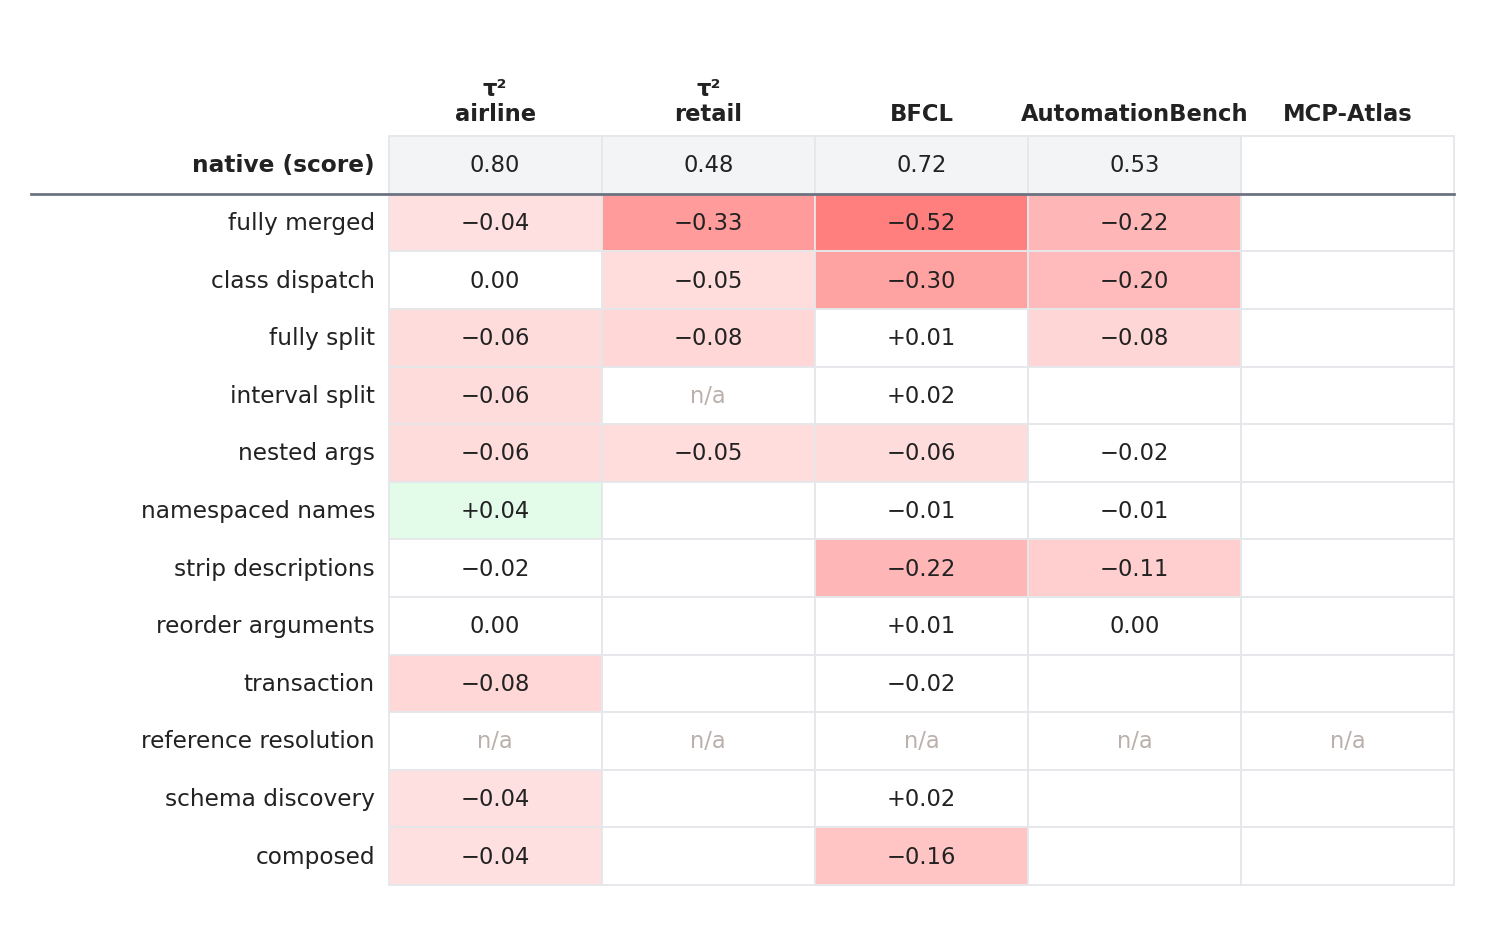
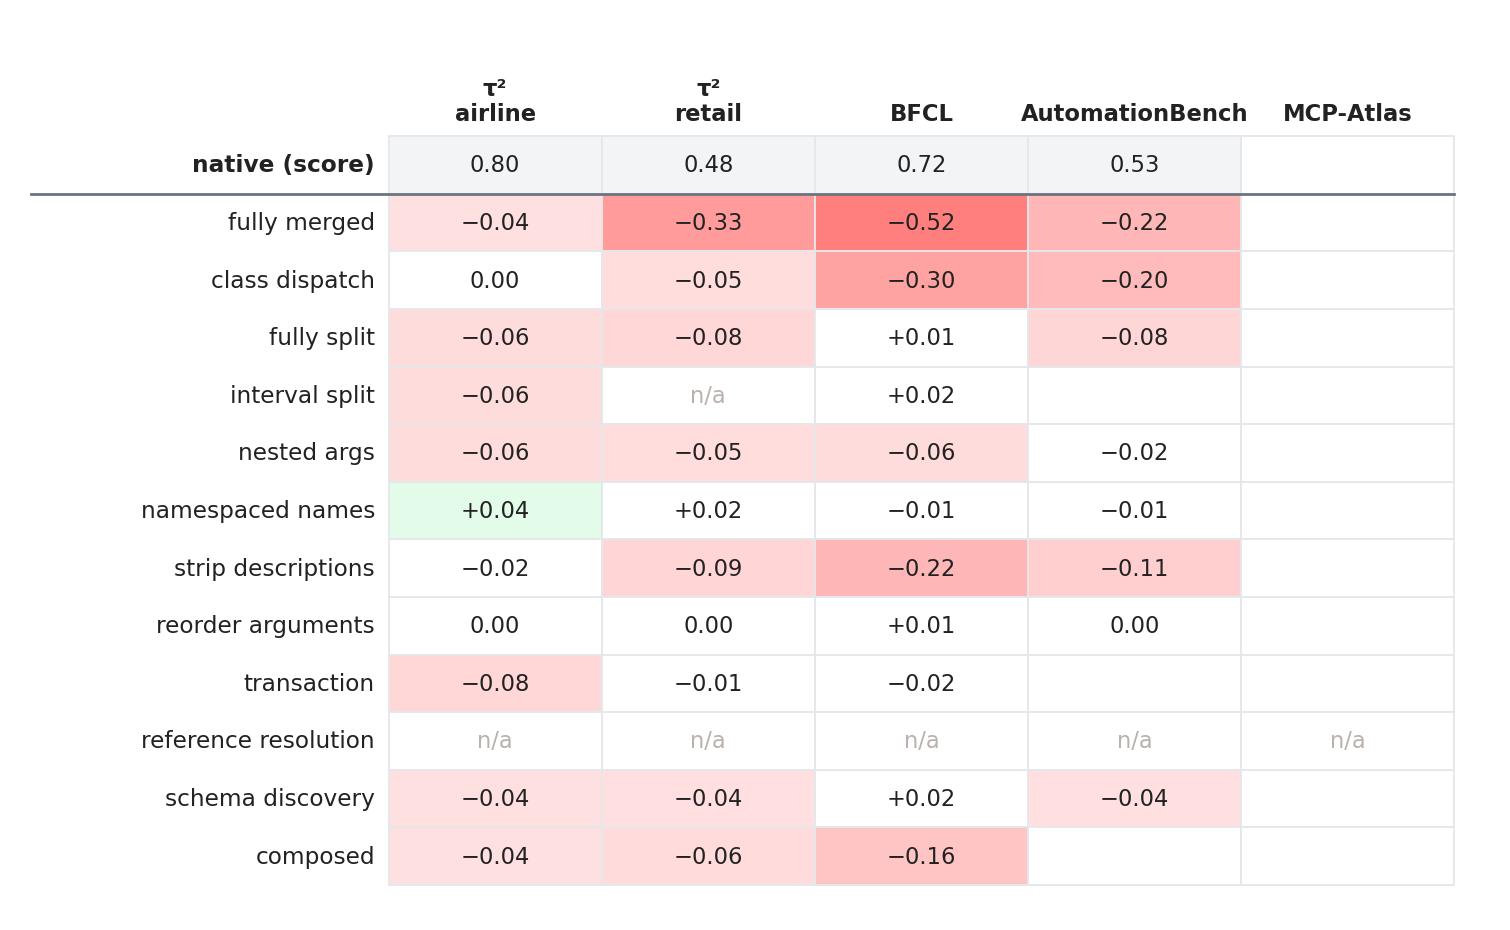
results: refresh real-benchmark table

diff --git a/results/raw_tables.md b/results/raw_tables.md
@@ -55,13 +55,13 @@ The numbers behind the figures in [README.md](README.md). In each table the firs
 | fully split | -0.060 | -0.079 | +0.005 | -0.082 |   |
 | interval split | -0.060 | n/a | +0.015 |   |   |
 | nested args | -0.060 | -0.053 | -0.060 | -0.020 |   |
-| namespaced names | +0.040 |   | -0.010 | -0.011 |   |
-| strip descriptions | -0.020 |   | -0.220 | -0.113 |   |
-| reorder arguments | +0.000 |   | +0.010 | +0.000 |   |
-| transaction | -0.080 |   | -0.020 |   |   |
+| namespaced names | +0.040 | +0.018 | -0.010 | -0.011 |   |
+| strip descriptions | -0.020 | -0.088 | -0.220 | -0.113 |   |
+| reorder arguments | +0.000 | +0.000 | +0.010 | +0.000 |   |
+| transaction | -0.080 | -0.009 | -0.020 |   |   |
 | reference resolution | n/a | n/a | n/a | n/a | n/a |
-| schema discovery | -0.040 |   | +0.020 |   |   |
-| composed | -0.040 |   | -0.160 |   |   |
+| schema discovery | -0.040 | -0.044 | +0.020 | -0.043 |   |
+| composed | -0.040 | -0.061 | -0.160 |   |   |
 
 ## Mitigation: Qwen3-4B, synthetic benchmark (paper Table 3)
 
